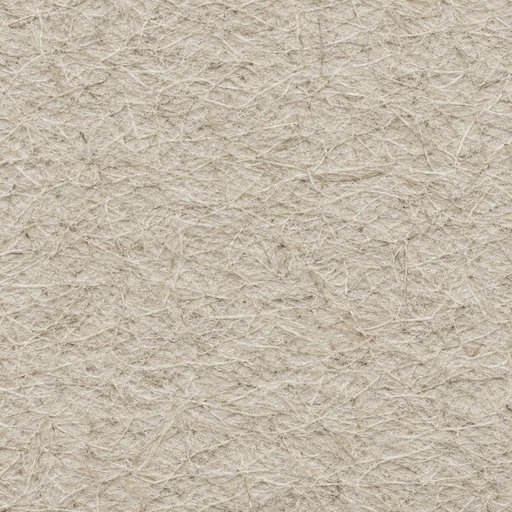
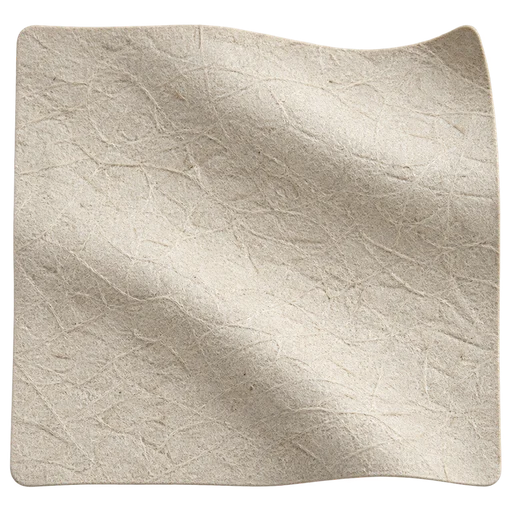
Filo studio: photographed fabric swatches replace the WebGL swatch
17 swatch photos (ChatGPT image generation via Codex image_gen, transparent), one per product:
pinked textiles, knife-cut leathers and mycelium, colour-matched to each product. They turn on
the spot with a soft shadow; the WebGL cloth renderer is removed.

diff --git a/public/work/filo/studio/thumbnail-layers.html b/public/work/filo/studio/thumbnail-layers.html
@@ -9,7 +9,7 @@
    src/components/FiloCard.tsx ported as-is: three tilted rails, linen glass, 4.5 fps turntables, no product twice.
    On top, Momo-style layers (src/components/MomoThumb.tsx): the phone on the left and the portal on the right play
    short snippets cut from the case study prototypes; the tag sits in the middle. Behind them, each product turns
-   into a swatch of its own fabric (a generated photo texture in the product's colour), then back. */
+   into a photographed swatch of its own material, in its colour, then back. */
 @font-face { font-family: 'Filo Inter'; src: url('/fonts/Inter-var-latin.woff2') format('woff2'); font-weight: 100 900; font-display: swap; }
 @font-face { font-family: 'Beatrice'; src: url('/fonts/Beatrice-Regular.woff2') format('woff2'); font-weight: 400; font-display: swap; }
 :root { --ink: #171717; --text: #666; --mute: #9a9a97; --line: #e4e4e1; --page: #f5f5f5; --cord: #965b40; }
@@ -118,7 +118,7 @@ body[data-zoom='in'] .desk video { top: 22px; height: calc(100% - 22px); }
 <header>
   <h1>Filo thumbnail · layers</h1>
   <p>Ways to layer the Filo card the way the Momo card is layered: the phone on the left, the tag in the middle, the portal on the right. Each device plays a few seconds cut from the case study prototypes, not the whole flow. Behind them, every product on the wall turns into a swatch of fabric in its own colour while it spins, then back: one material, three forms.</p>
-  <p class="note">Every card is at its real size (867 × 493) and uses the real wall from FiloCard.tsx. The controls change all the cards at once. Each swatch wears a photographic texture of that product’s material, in its colour (generated with ChatGPT image generation, in /work/filo/thumb/fabric/); the cut and the sheen (leather, weave, satin, knit) follow its material in the Future Fabric catalog.</p>
+  <p class="note">Every card is at its real size (867 × 493) and uses the real wall from FiloCard.tsx. The controls change all the cards at once. Each swatch is a photograph of a sample of that product’s material, in its colour (generated with ChatGPT image generation, in /work/filo/thumb/fabric/): textiles are cut with pinking shears, leathers and mycelium with a knife, as in the Future Fabric catalog.</p>
 </header>
 
 <div class="controls"><div class="controls__in" id="controls"></div></div>
@@ -148,7 +148,6 @@ const PRODUCTS = [
   ['PBC-08', 'Conscious Exclusive 2019', 'Orange Fiber citrus cellulose', 'orange-fiber-x-h-m-conscious-exclusive-collection-2019'],
 ].map(([code, name, material, sprite]) => ({ code, name, material, sprite: `/work/filo/sprites/${sprite}-spritesheet.webp` }))
 
-const FINISHES = ['weave', 'knit', 'satin', 'leather']
 const finishOf = m => /leather|mycelium|Piñatex/i.test(m) ? 'leather' : /wool/i.test(m) ? 'knit' : /Tencel|Lyocell|Orange Fiber/i.test(m) ? 'satin' : 'weave'
 
 const SNIPPETS = {
@@ -296,142 +295,23 @@ function apply() {
   for (const c of cells) c.key = ''
 }
 
-/* ─────────────────────────── Fabric renderer (WebGL2) ─────────────────────────── */
-// One offscreen canvas draws a swatch for (colour, finish, turntable frame); tiles copy it into their own canvas.
-const FAB = 256
-const Fabric = (() => {
-  const cvs = document.createElement('canvas')
-  cvs.width = cvs.height = FAB
-  const gl = cvs.getContext('webgl2', { premultipliedAlpha: true, antialias: true, alpha: true })
-  const VS = `#version 300 es
-  in vec2 a_uv;
-  uniform float u_phase, u_angle, u_lean, u_roll, u_size;
-  uniform int u_finish;
-  uniform mat4 u_pv;
-  out vec2 v_uv; out vec3 v_n; out vec3 v_t; out vec3 v_p; out float v_w;
-  float W(vec2 q) {
-    float stiff = u_finish == 3 ? 0.55 : 1.0;
-    return stiff * (0.07 * sin(6.2832 * (0.8 * q.x + 0.35 * q.y) + u_phase)
-      + 0.045 * sin(6.2832 * (1.5 * q.y - 0.45 * q.x) + 1.7 - 2.0 * u_phase)
-      + 0.02 * sin(6.2832 * (2.4 * q.x + 1.2 * q.y) + 0.6 + 3.0 * u_phase))
-      + 0.16 * (q.x * q.x + 0.5 * q.y * q.y);
-  }
-  mat3 rx(float a) { float c = cos(a), s = sin(a); return mat3(1, 0, 0, 0, c, s, 0, -s, c); }
-  mat3 rz(float a) { float c = cos(a), s = sin(a); return mat3(c, s, 0, -s, c, 0, 0, 0, 1); }
-  void main() {
-    vec2 q = a_uv - 0.5;
-    float e = 0.003, w = W(q);
-    float dx = (W(q + vec2(e, 0)) - W(q - vec2(e, 0))) / (2.0 * e);
-    float dy = (W(q + vec2(0, e)) - W(q - vec2(0, e))) / (2.0 * e);
-    // The swatch leans back toward the camera and spins in its own plane, so it never turns edge-on.
-    mat3 R = rx(u_lean) * rz(u_angle + u_roll);
-    vec3 p = R * (vec3(q, w) * u_size);
-    v_n = R * normalize(vec3(-dx, -dy, 1.0));
-    v_t = R * normalize(vec3(1.0, 0.0, dx));
-    v_uv = a_uv; v_p = p; v_w = w;
-    gl_Position = u_pv * vec4(p, 1.0);
-  }`
-  const FS = `#version 300 es
-  precision highp float; precision highp int;
-  in vec2 v_uv; in vec3 v_n; in vec3 v_t; in vec3 v_p; in float v_w;
-  uniform vec3 u_eye;
-  uniform int u_finish;
-  uniform sampler2D u_tex;
-  out vec4 o;
-  void main() {
-    vec2 q = abs(v_uv - 0.5);
-    float d;
-    if (u_finish == 3) { // leather: clean cut, rounded corners
-      vec2 b = vec2(0.5 - 0.07);
-      d = -(length(max(q - b, 0.0)) + min(max(q.x - b.x, q.y - b.y), 0.0) - 0.07);
-    } else { // textiles: pinked edges
-      float s = q.x > q.y ? v_uv.y : v_uv.x;
-      d = 0.5 - max(q.x, q.y) - 0.016 * (1.0 - abs(2.0 * fract(s / 0.034) - 1.0));
-    }
-    float alpha = smoothstep(0.0, fwidth(d) * 1.4, d);
-    if (alpha <= 0.0) discard;
-
-    vec3 N = normalize(v_n), V = normalize(u_eye - v_p);
-    float side = 1.0;
-    if (dot(N, V) < 0.0) { N = -N; side = 0.8; }
-
-    // Surface: the photo texture is the colour; the finish only sets how glossy it is.
-    float ks = 0.025, shin = 18.0, sheen = 0.1, aniso = 0.0;
-    if (u_finish == 1) sheen = 0.16; // knit: fuzzy rim
-    else if (u_finish == 2) { ks = 0.0; aniso = 0.2; sheen = 0.06; } // satin: streaks down the folds
-    else if (u_finish == 3) { ks = 0.05; shin = 44.0; sheen = 0.04; } // leather: a small, tight highlight
-    vec3 tex = pow(texture(u_tex, v_uv).rgb, vec3(2.2));
-
-    vec3 L1 = normalize(vec3(-0.55, 0.75, 0.7)), L2 = normalize(vec3(0.75, 0.15, 0.45));
-    float w1 = clamp((dot(N, L1) + 0.35) / 1.35, 0.0, 1.0), w2 = clamp((dot(N, L2) + 0.4) / 1.4, 0.0, 1.0);
-    float ao = 0.84 + 0.16 * smoothstep(-0.06, 0.08, v_w);
-    vec3 base = tex * side;
-    vec3 col = base * (0.32 + 0.72 * w1 + 0.22 * w2) * ao;
-    vec3 H = normalize(L1 + V);
-    col += vec3(1.0, 0.98, 0.95) * ks * pow(max(dot(N, H), 0.0), shin) * side;
-    // Satin: a Kajiya-Kay highlight along the warp, so the light runs in streaks down the folds.
-    vec3 T = normalize(v_t - N * dot(v_t, N));
-    float th = dot(T, H);
-    col += vec3(1.0, 0.98, 0.95) * aniso * pow(sqrt(max(0.0, 1.0 - th * th)), 36.0) * max(dot(N, L1), 0.0) * side;
-    col += (tex * 0.8 + 0.04) * sheen * pow(1.0 - max(dot(N, V), 0.0), 3.0);
-    col = pow(max(col, 0.0), vec3(1.0 / 2.2));
-    o = vec4(col * alpha, alpha);
-  }`
-  const sh = (type, src) => { const s = gl.createShader(type); gl.shaderSource(s, src); gl.compileShader(s); if (!gl.getShaderParameter(s, gl.COMPILE_STATUS)) throw new Error(gl.getShaderInfoLog(s)); return s }
-  const prog = gl.createProgram()
-  gl.attachShader(prog, sh(gl.VERTEX_SHADER, VS)); gl.attachShader(prog, sh(gl.FRAGMENT_SHADER, FS)); gl.linkProgram(prog)
-  if (!gl.getProgramParameter(prog, gl.LINK_STATUS)) throw new Error(gl.getProgramInfoLog(prog))
-  gl.useProgram(prog)
-  const G = 72, uv = [], idx = []
-  for (let j = 0; j <= G; j++) for (let i = 0; i <= G; i++) uv.push(i / G, j / G)
-  for (let j = 0; j < G; j++) for (let i = 0; i < G; i++) { const a = j * (G + 1) + i, b = a + 1, c = a + G + 1, d = c + 1; idx.push(a, b, d, a, d, c) }
-  const vao = gl.createVertexArray(); gl.bindVertexArray(vao)
-  gl.bindBuffer(gl.ARRAY_BUFFER, gl.createBuffer()); gl.bufferData(gl.ARRAY_BUFFER, new Float32Array(uv), gl.STATIC_DRAW)
-  const loc = gl.getAttribLocation(prog, 'a_uv'); gl.enableVertexAttribArray(loc); gl.vertexAttribPointer(loc, 2, gl.FLOAT, false, 0, 0)
-  gl.bindBuffer(gl.ELEMENT_ARRAY_BUFFER, gl.createBuffer()); gl.bufferData(gl.ELEMENT_ARRAY_BUFFER, new Uint16Array(idx), gl.STATIC_DRAW)
-  const U = n => gl.getUniformLocation(prog, n)
-  const u = Object.fromEntries(['u_phase', 'u_angle', 'u_lean', 'u_roll', 'u_size', 'u_finish', 'u_pv', 'u_eye'].map(n => [n, U(n)]))
-  // Camera: a little above, looking at the swatch's centre; about the framing of the product turntables.
-  const eye = [0, 0.8, 3.2]
-  const pv = (() => {
-    const f = 1 / Math.tan((28 * Math.PI) / 360), n = 0.1, fa = 10
-    const P = [f, 0, 0, 0, 0, f, 0, 0, 0, 0, (fa + n) / (n - fa), -1, 0, 0, (2 * fa * n) / (n - fa), 0]
-    const zl = Math.hypot(...eye), z = eye.map(v => v / zl)
-    const x = [1, 0, 0], y = [z[1] * x[2] - z[2] * x[1], z[2] * x[0] - z[0] * x[2], z[0] * x[1] - z[1] * x[0]]
-    const Vm = [x[0], y[0], z[0], 0, x[1], y[1], z[1], 0, x[2], y[2], z[2], 0, -(x[0] * eye[0] + x[1] * eye[1] + x[2] * eye[2]), -(y[0] * eye[0] + y[1] * eye[1] + y[2] * eye[2]), -(z[0] * eye[0] + z[1] * eye[1] + z[2] * eye[2]), 1]
-    const M = new Float32Array(16)
-    for (let c = 0; c < 4; c++) for (let r = 0; r < 4; r++) { let s = 0; for (let k = 0; k < 4; k++) s += P[k * 4 + r] * Vm[c * 4 + k]; M[c * 4 + r] = s }
-    return M
-  })()
-  gl.uniformMatrix4fv(u.u_pv, false, pv)
-  gl.uniform3fv(u.u_eye, eye)
-  gl.uniform1f(u.u_lean, -0.78); gl.uniform1f(u.u_roll, 0.22); gl.uniform1f(u.u_size, 0.98)
-  gl.enable(gl.DEPTH_TEST)
-  gl.viewport(0, 0, FAB, FAB)
-  return {
-    /** Draws product p's swatch at turntable frame f (one turn per 36 frames, like the sprites) into ctx. */
-    draw(ctx, p, f) {
-      gl.uniform1i(u.u_finish, FINISHES.indexOf(p.finish))
-      if (!p.tex) {
-        p.tex = gl.createTexture()
-        gl.bindTexture(gl.TEXTURE_2D, p.tex)
-        gl.texImage2D(gl.TEXTURE_2D, 0, gl.RGBA, gl.RGBA, gl.UNSIGNED_BYTE, p.fabric)
-        gl.generateMipmap(gl.TEXTURE_2D)
-        gl.texParameteri(gl.TEXTURE_2D, gl.TEXTURE_MIN_FILTER, gl.LINEAR_MIPMAP_LINEAR)
-      }
-      gl.bindTexture(gl.TEXTURE_2D, p.tex)
-      gl.uniform1f(u.u_angle, -(f / 36) * Math.PI * 2 + 0.5)
-      gl.uniform1f(u.u_phase, (f / 36) * Math.PI * 2)
-      gl.clearColor(0, 0, 0, 0)
-      gl.clear(gl.COLOR_BUFFER_BIT | gl.DEPTH_BUFFER_BIT)
-      gl.drawElements(gl.TRIANGLES, idx.length, gl.UNSIGNED_SHORT, 0)
-      ctx.drawImage(cvs, 0, 0, ctx.canvas.width, ctx.canvas.height)
-    },
-  }
-})()
+/* ─────────────────────────── Fabric swatches ─────────────────────────── */
+// A photographed swatch, shot from above, turns on the spot like the product turntables (one turn per 36 frames),
+// seen from a little above (the vertical squash) and lifted off the tile by a soft shadow.
+const SWATCH = { size: 0.7, lean: 0.8 } // size 0.7: the diagonal still fits the tile at 45°
+const Fabric = {
+  /** Draws product p's swatch at turntable frame f into ctx, filling its canvas. */
+  draw(ctx, p, f) {
+    const s = ctx.canvas.width, d = s * SWATCH.size
+    ctx.save()
+    ctx.shadowColor = 'rgb(60 40 24 / 0.22)'; ctx.shadowBlur = s * 0.05; ctx.shadowOffsetY = s * 0.03
+    ctx.translate(s / 2, s / 2); ctx.scale(1, SWATCH.lean); ctx.rotate(-(f / 36) * Math.PI * 2 + 0.5)
+    ctx.drawImage(p.fabric, -d / 2, -d / 2, d, d)
+    ctx.restore()
+  },
+}
 
 /* ─────────────────────────── Products: sheets and colours ─────────────────────────── */
-const toLin = c => (c /= 255) <= 0.04045 ? c / 12.92 : ((c + 0.055) / 1.055) ** 2.4
 async function loadProducts() {
   await Promise.all(PRODUCTS.map(async p => {
     const img = new Image()
@@ -460,7 +340,6 @@ async function loadProducts() {
     const best = [...bins.values()].sort((a, b) => b[3] - a[3])[0]
     p.rgb = best.slice(0, 3).map(v => Math.round(v / best[3]))
     p.hex = '#' + p.rgb.map(v => v.toString(16).padStart(2, '0')).join('')
-    p.lin = p.rgb.map(toLin)
   }))
 }
 
